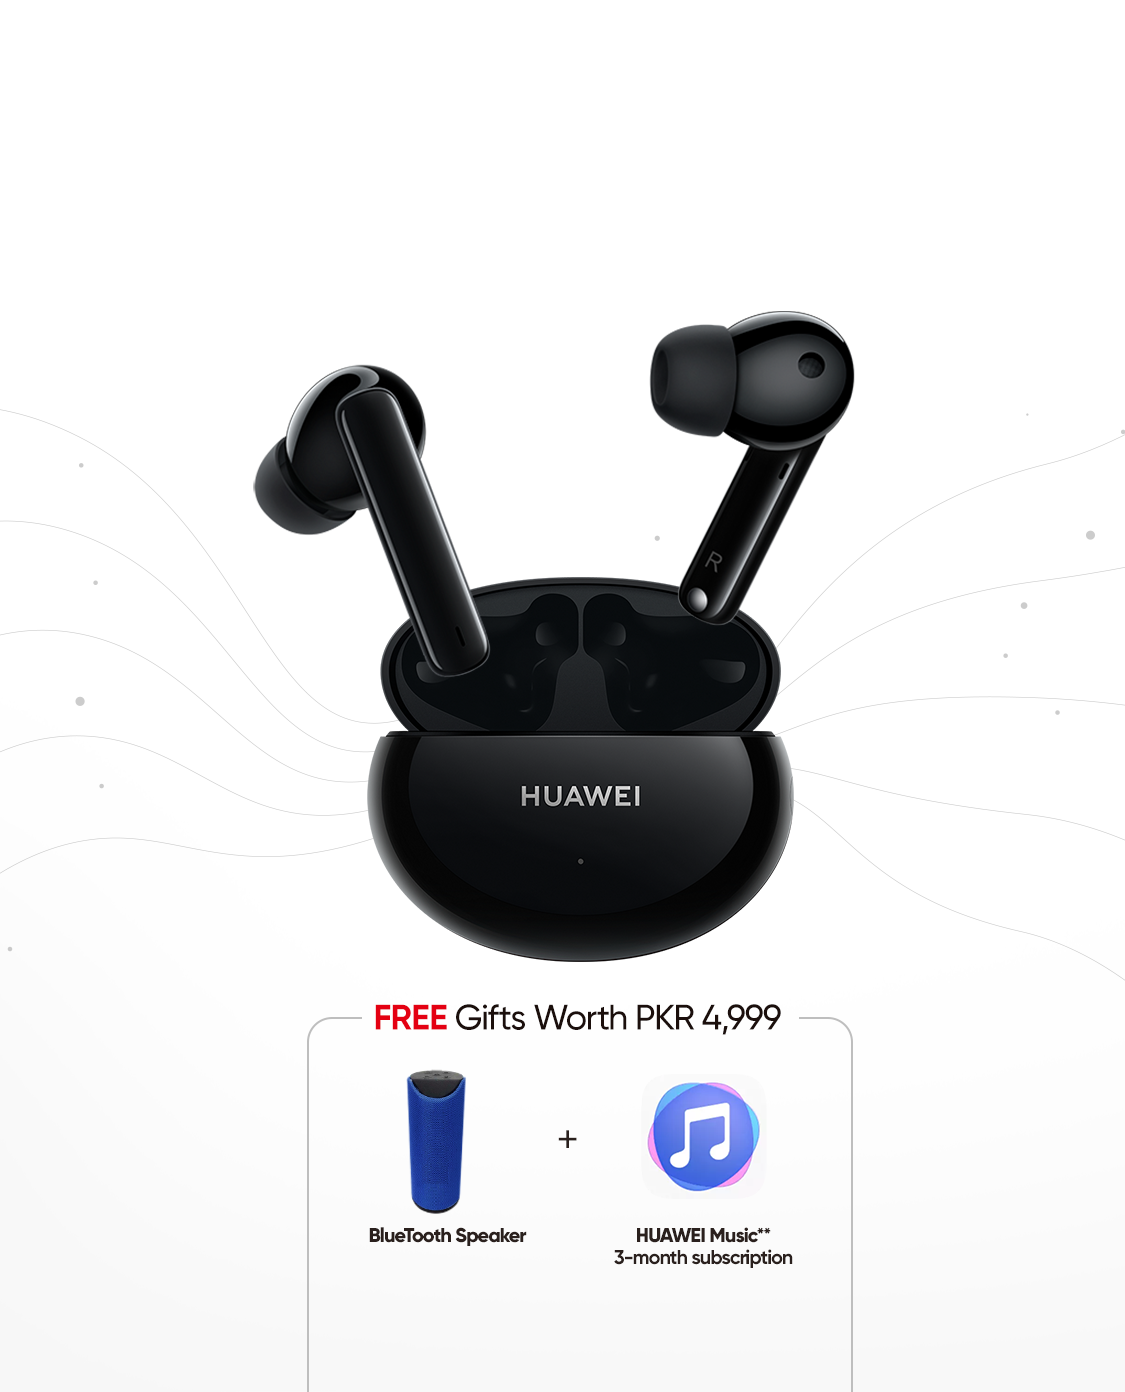
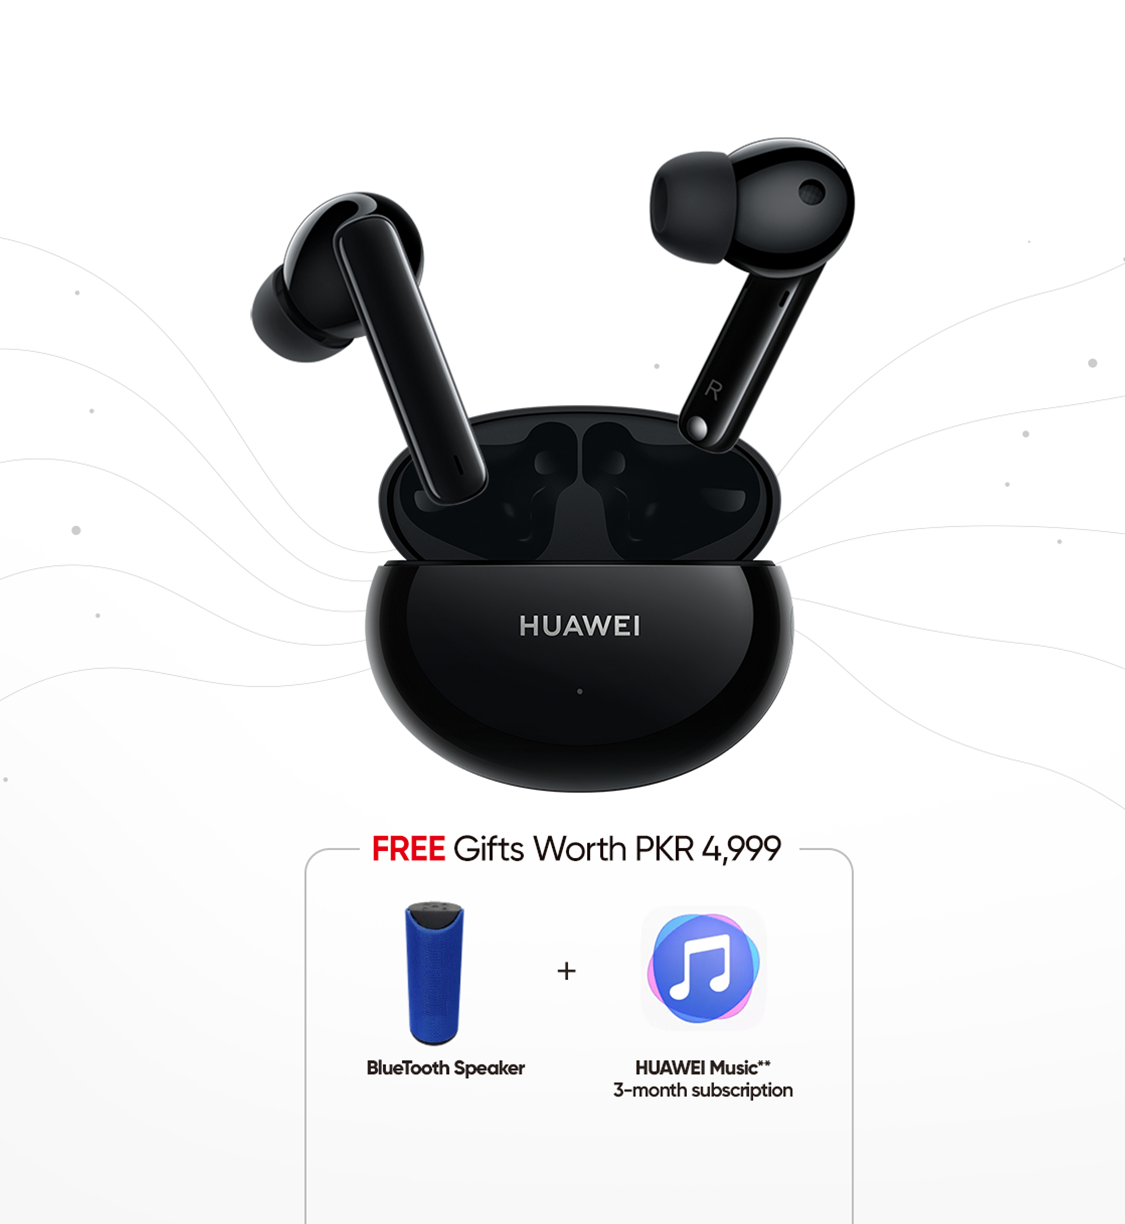
added slider

Changed region(s): [[0.2178, 0.0931, 0.7778, 0.9314], [0.2489, 0.7141, 0.28, 1.0]]

diff --git a/css/product.css b/css/product.css
@@ -1,12 +1,13 @@
 body {
     font-family: 'Poppins', sans-serif!important;
     margin: 0;
+    background-color: #FFFFFF;
 }
 
 .airbuds-img {
     height: 450px;
     width: 100%;
-    background-image: url("../images/product.png");
+    /* background-image: url("../images/product.png"); */
     background-position: center;
     background-repeat: no-repeat;
     background-size: cover;
@@ -17,6 +18,8 @@ body {
     font-size: 18pt;
     font-weight: 700;
     color: black;
+    align-items: center;
+    padding-top: 20px;
 }
 
 .card-heading {
@@ -35,10 +38,6 @@ body {
     border-radius: 20px 20px 0 0;
     background-color: #fff;
     filter: drop-shadow(0px 30px 20pt);
-}
-
-.text-left {
-    text-align: left;
 }
 
 .grid-container-2 {
@@ -221,4 +220,172 @@ button {
     line-height: 22px;
     position: relative;
     top: 50px;
+}
+
+
+/* slider */
+
+* {
+    box-sizing: border-box
+}
+
+body {
+    font-family: Verdana, sans-serif;
+    margin: 0
+}
+
+.mySlides {
+    display: none;
+}
+
+img {
+    vertical-align: middle;
+}
+
+
+/* Slideshow container */
+
+.slideshow-container {
+    max-width: 1000px;
+    position: relative;
+    margin: auto;
+}
+
+
+/* Next & previous buttons */
+
+.prev,
+.next {
+    cursor: pointer;
+    position: absolute;
+    top: 50%;
+    width: auto;
+    padding: 16px;
+    margin-top: -22px;
+    color: white;
+    font-weight: bold;
+    font-size: 18px;
+    transition: 0.6s ease;
+    border-radius: 0 3px 3px 0;
+    user-select: none;
+}
+
+
+/* Position the "next button" to the right */
+
+.next {
+    right: 0;
+    border-radius: 3px 0 0 3px;
+}
+
+
+/* On hover, add a black background color with a little bit see-through */
+
+.prev:hover,
+.next:hover {
+    background-color: rgba(0, 0, 0, 0.8);
+}
+
+
+/* Caption text */
+
+.text {
+    color: #f2f2f2;
+    font-size: 15px;
+    padding: 8px 12px;
+    position: absolute;
+    bottom: 8px;
+    width: 100%;
+    text-align: center;
+}
+
+
+/* Number text (1/3 etc) */
+
+.numbertext {
+    color: #f2f2f2;
+    font-size: 12px;
+    padding: 8px 12px;
+    position: absolute;
+    top: 0;
+}
+
+
+/* The dots/bullets/indicators */
+
+.dot {
+    cursor: pointer;
+    height: 15px;
+    width: 15px;
+    margin: 0 2px;
+    background-color: #bbb;
+    border-radius: 50%;
+    display: inline-block;
+    transition: background-color 0.6s ease;
+}
+
+.active,
+.dot:hover {
+    background-color: #717171;
+}
+
+
+/* Fading animation */
+
+.fade {
+    -webkit-animation-name: fade;
+    -webkit-animation-duration: 1.5s;
+    animation-name: fade;
+    animation-duration: 1.5s;
+}
+
+@-webkit-keyframes fade {
+    from {
+        opacity: .4
+    }
+    to {
+        opacity: 1
+    }
+}
+
+@keyframes fade {
+    from {
+        opacity: .4
+    }
+    to {
+        opacity: 1
+    }
+}
+
+
+/* On smaller screens, decrease text size */
+
+@media only screen and (max-width: 300px) {
+    .prev,
+    .next,
+    .text {
+        font-size: 11px
+    }
+}
+
+strong {
+    color: #000;
+}
+
+@media only screen and (min-height: 800px) {
+    .mySlides {
+        height: 45vh !important;
+    }
+}
+
+@media only screen and (min-height:600px) {
+    .mySlides {
+        height: 52vh;
+    }
+}
+
+@media only screen and (min-height: 900px) {
+    .mySlides {
+        height: 60vh !important;
+    }
 }

diff --git a/js/product.js b/js/product.js
@@ -1,4 +1,5 @@
 $(document).ready(function() {
+
     const minus = $('.quantity__minus');
     const plus = $('.quantity__plus');
     const input = $('.quantity__input');
@@ -76,3 +77,32 @@ $(document).ready(function() {
         });
     });
 });
+
+
+var slideIndex = 1;
+// showSlides(slideIndex);
+
+function plusSlides(n) {
+    showSlides(slideIndex += n);
+}
+
+function currentSlide(n) {
+    showSlides(slideIndex = n);
+}
+
+function showSlides(n) {
+    var i;
+    var slides = document.getElementsByClassName("mySlides");
+    var dots = document.getElementsByClassName("dot");
+    if (n > slides.length) { slideIndex = 1 }
+    if (n < 1) { slideIndex = slides.length }
+    for (i = 0; i < slides.length; i++) {
+
+        slides[i].style.display = "none";
+    }
+    for (i = 0; i < dots.length; i++) {
+        dots[i].className = dots[i].className.replace(" active", "");
+    }
+    slides[slideIndex - 1].style.display = "block";
+    dots[slideIndex - 1].className += " active";
+}

diff --git a/product.php b/product.php
@@ -14,9 +14,38 @@
 
 <body>
     <main>
-        <div class="mx-4 airbuds-img">
-            <p class="heading">Huawei FreeBuds 4i</p>
+        
+        <!-- slider -->
+        <div class="slideshow-container">
+        <div class="heading">Huawei FreeBuds 4i</div>
+            <div class="mySlides fade" style="display: block;" id="slider1" >
+                <img src="./images/product.png"  style="width:100%" onclick="currentSlide(2)">
+              
+            </div>
+    
+        
+            <div class="mySlides fade" id="slider2">
+                <img src="./images/productred.png" style="width:100%" onclick="currentSlide(3)" >
+            </div>
+        
+            <div class="mySlides fade" id="slider3">
+                <img src="./images/productwhite.png" style="width:100%" onclick="currentSlide(4)">
+            </div>
+        
+            <a class="prev" onclick="plusSlides(-1)">&#10094;</a>
+            <a class="next" onclick="plusSlides(1)">&#10095;</a>
         </div>
+        <br>
+
+        <div style="text-align:center">
+            <span class="dot" onclick="currentSlide(1)"></span> 
+            <span class="dot" onclick="currentSlide(2)"></span> 
+            <span class="dot" onclick="currentSlide(3)"></span> 
+        </div>
+        <!-- slidr -->
+        <!-- <div class="mx-4 airbuds-img" id="airbuds-img">
+            <p class="heading">Huawei FreeBuds 4i</p>
+        </div> -->
         <div class="card-info">
             <p class="card-heading text-left">Huawei FreeBuds 4i</p>
             <div class="grid-container-2">
@@ -44,7 +73,7 @@
                 </div>
                 <div class="error-div"><span class=" text-left">Please Select Color</span></div>
                 <div>
-                <p class="description text-left">High Quality Sound | Active Noise Cancellation | 10 Hours of Continuous Playback. <br> Crystal clear sound that will blow you away. Rich instrumental harmonies, clear vocals, punchy bass, and finely balanced sound.</p>
+                <p class="description text-left"><strong>High Quality Sound | Active Noise Cancellation | 10 Hours of Continuous Playback.</strong> <br> Crystal clear sound that will blow you away. Rich instrumental harmonies, clear vocals, punchy bass, and finely balanced sound.</p>
             </div>
             <input type="hidden" name="color" id="color" value="" >
             <div class="pre-order">
